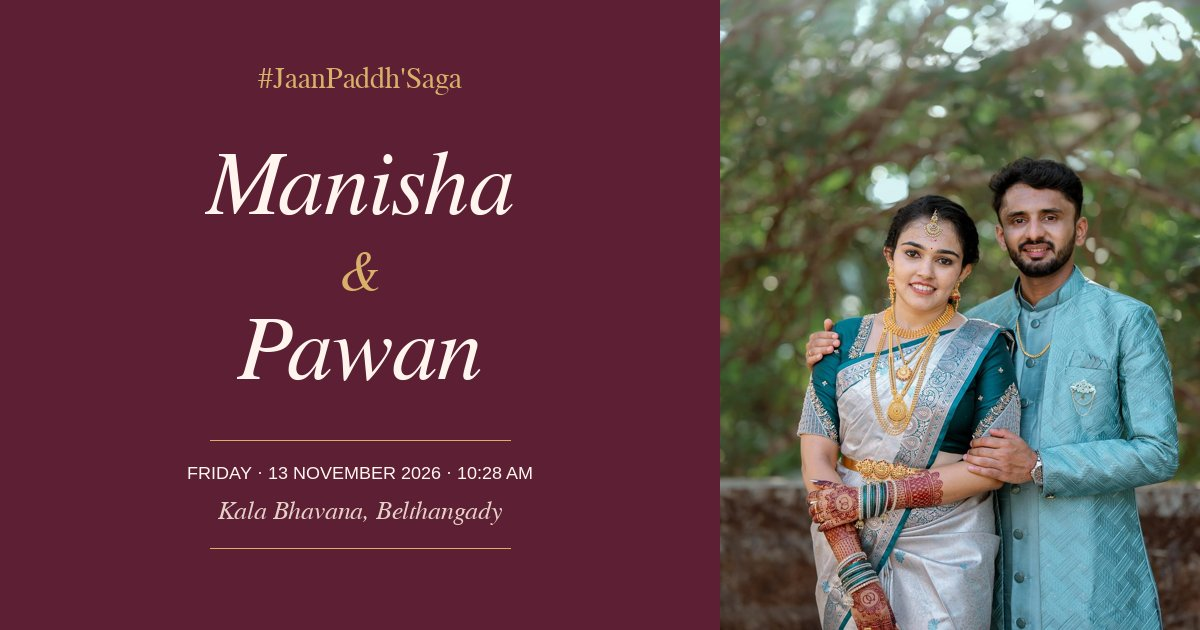
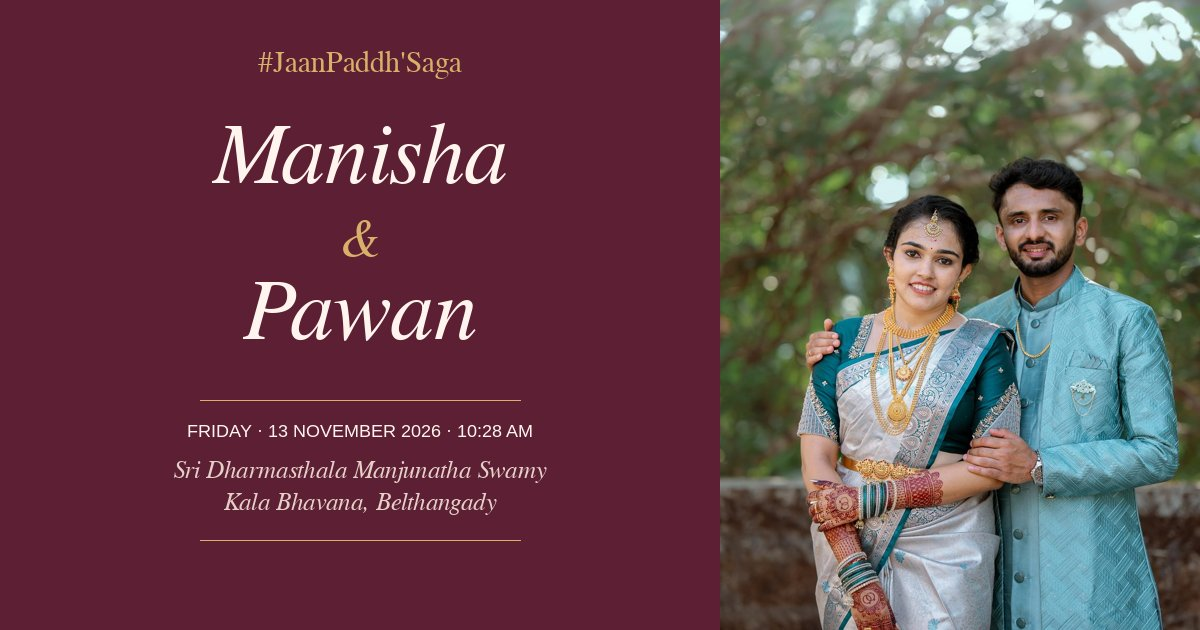
Use the full venue name in both share previews
Claude-Session: https://claude.ai/code/session_01DUwJvU5z5tskyMdFUro9iy

Changed region(s): [[0.1542, 0.181, 0.4317, 0.6032], [0.1542, 0.6333, 0.4625, 0.8746], [0.2158, 0.0905, 0.4008, 0.1508]]

diff --git a/manisha/index.html b/manisha/index.html
@@ -7,7 +7,7 @@
 <meta name="description" content="Dr. Manisha M weds Dr. Pawan Kumar B · Friday, 13 November 2026, 10:28 AM · Sri Dharmasthala Manjunatha Swamy Kala Bhavana, Belthangady">
 <meta property="og:type" content="website">
 <meta property="og:title" content="Manisha &amp; Pawan · Shubha Vivaha">
-<meta property="og:description" content="#JaanPaddh'Saga · Friday, 13 November 2026 · 10:28 AM · Kala Bhavana, Belthangady. Your blessings are our only gift.">
+<meta property="og:description" content="#JaanPaddh'Saga · Friday, 13 November 2026 · 10:28 AM · Sri Dharmasthala Manjunatha Swamy Kala Bhavana, Belthangady. Your blessings are our only gift.">
 <meta property="og:url" content="https://jaanpaddhsaga.netlify.app/manisha/">
 <meta property="og:image" content="https://jaanpaddhsaga.netlify.app/assets/img/og-manisha.jpg">
 <meta property="og:image:width" content="1200">

diff --git a/index.html b/index.html
@@ -6,7 +6,7 @@
 <title>Pawan &amp; Manisha · Shubha Vivaha</title>
 <meta name="description" content="Dr. Pawan Kumar B weds Dr. Manisha M · Friday, 13 November 2026, 10:28 AM · Sri Dharmasthala Manjunatha Swamy Kala Bhavana, Belthangady">
 <meta property="og:title" content="Pawan &amp; Manisha · Shubha Vivaha">
-<meta property="og:description" content="#JaanPaddh'Saga · Friday, 13 November 2026 · 10:28 AM · Kala Bhavana, Belthangady. Your blessings are our only gift.">
+<meta property="og:description" content="#JaanPaddh'Saga · Friday, 13 November 2026 · 10:28 AM · Sri Dharmasthala Manjunatha Swamy Kala Bhavana, Belthangady. Your blessings are our only gift.">
 <meta property="og:type" content="website">
 <meta property="og:url" content="https://jaanpaddhsaga.netlify.app/">
 <meta property="og:image" content="https://jaanpaddhsaga.netlify.app/assets/img/og.jpg">
